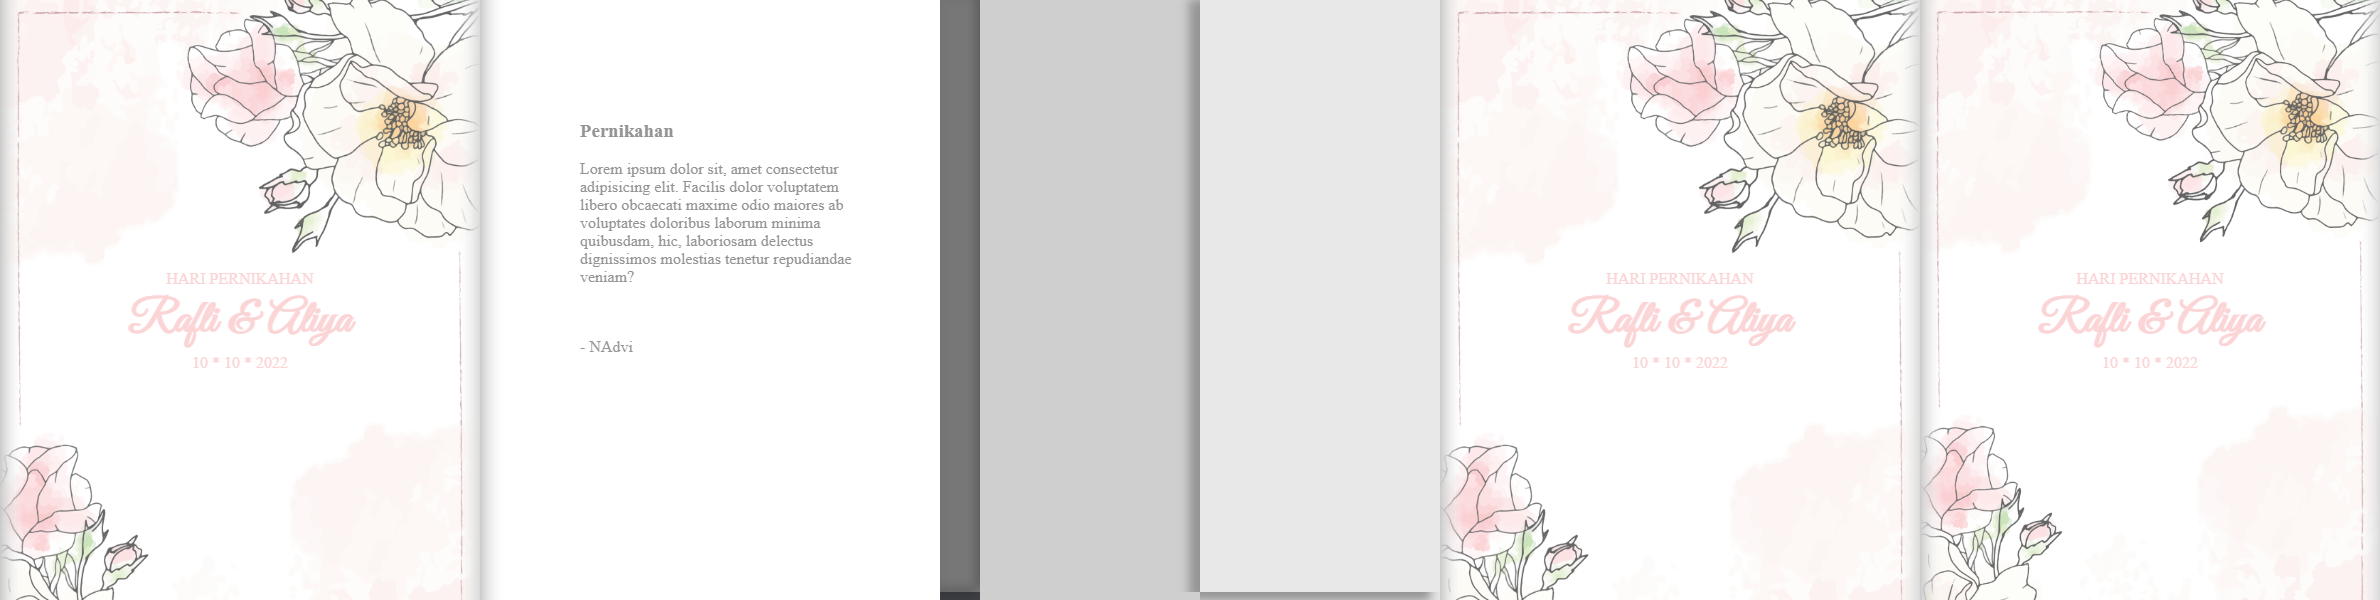
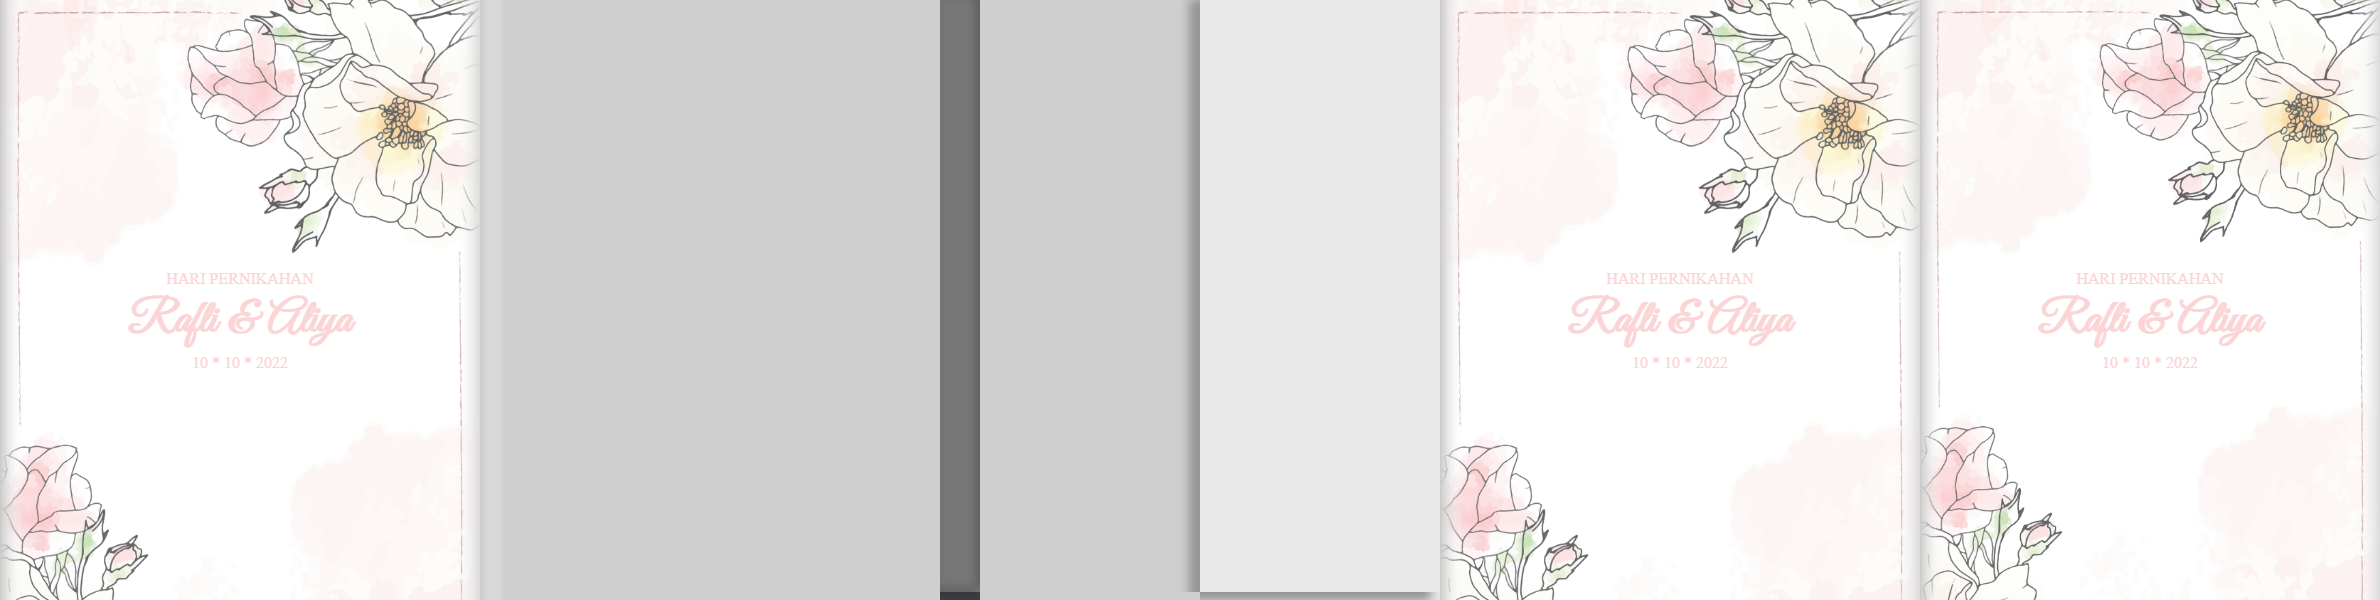
fixing things

Changed region(s): [[0.1866, 0.0, 0.4042, 1.0]]

diff --git a/public/turnjs/invitation/css/books.css b/public/turnjs/invitation/css/books.css
@@ -1,4 +1,5 @@
 /* Steve jobs' book */
+
 @import url('https://fonts.googleapis.com/css2?family=Great+Vibes&display=swap');
 @font-face {
     font-family: 'Stempel-Garamond-W01-Roman';
@@ -170,11 +171,16 @@ form {
     box-shadow: 0 0 20px #999;
 }
 
+
 /* .sj-book .p1, */
+
 .sj-book .p2,
+
 /* .sj-book .p3, */
+
 .sj-book .p21
 /* .sj-book .p22  */
+
 {
     background-image: url(../pics/sampul.png) !important;
 }
@@ -208,17 +214,15 @@ form {
     z-index: 100;
 }
 
-.sj-book .p1 .sampul{
+.sj-book .sampul {
     width: 100%;
     height: 100%;
 }
 
-.sampul img{
+.sampul img {
     width: 100%;
     height: 100%;
 }
-
-
 
 .sj-book-transform div[page="1"]>div,
 .sj-book-transform div[page="2"]>div {
@@ -246,6 +250,7 @@ form {
 .sj-book .p2 {
     background-position: -480px 0 !important;
 }
+
 
 /* .sj-book .p3 {
     background-position: -1920px 0 !important;
@@ -417,8 +422,8 @@ form {
 
 
 /* mycustom code */
-.overlay-effect{
 
+.overlay-effect {
     display: flex;
     flex-direction: column;
     align-items: center;
@@ -429,34 +434,35 @@ form {
     /* background-color: rgba(0, 0, 0, 0.1); */
 }
 
-.overlay-effect h3{
-    font-size:44px;
-    margin-bottom:10px;
-    margin-top:10px;
+.overlay-effect h3 {
+    font-size: 44px;
+    margin-bottom: 10px;
+    margin-top: 10px;
     font-family: 'Great Vibes', cursive;
 }
 
-.cover-effect-right{
-    position:absolute;
+.cover-effect-right {
+    position: absolute;
     width: 100%;
     height: 100%;
-    background:-webkit-gradient(linear, left top, right top, color-stop(0.95, #ffffff00), color-stop(1, #dadada));
-    background-image:-webkit-linear-gradient(left, #ffffff00 95%, #dadada 100%);
-    background-image:-moz-linear-gradient(left, #ffffff00 95%, #dadada 100%);
-    background-image:-ms-linear-gradient(left, #ffffff00 95%, #dadada 100%);
-    background-image:-o-linear-gradient(left, #ffffff00 95%, #dadada 100%);
-    background-image:linear-gradient(left, #ffffff00 95%, #dadada 100%);
+    background: -webkit-gradient(linear, left top, right top, color-stop(0.95, #ffffff00), color-stop(1, #dadada));
+    background-image: -webkit-linear-gradient(left, #ffffff00 95%, #dadada 100%);
+    background-image: -moz-linear-gradient(left, #ffffff00 95%, #dadada 100%);
+    background-image: -ms-linear-gradient(left, #ffffff00 95%, #dadada 100%);
+    background-image: -o-linear-gradient(left, #ffffff00 95%, #dadada 100%);
+    background-image: linear-gradient(left, #ffffff00 95%, #dadada 100%);
 }
-.cover-effect-left{
-    position:absolute;
+
+.cover-effect-left {
+    position: absolute;
     width: 100%;
     height: 100%;
-    background:-webkit-gradient(linear, right top, left top, color-stop(0.95, #ffffff00), color-stop(1, #cacaca));
-    background-image:-webkit-linear-gradient(right, #ffffff00 95%, #cacaca 100%);
-    background-image:-moz-linear-gradient(right, #ffffff00 95%, #cacaca 100%);
-    background-image:-ms-linear-gradient(right, #ffffff00 95%, #cacaca 100%);
-    background-image:-o-linear-gradient(right, #ffffff00 95%, #cacaca 100%);
-    background-image:linear-gradient(right, #ffffff00 95%, #cacaca 100%);
+    background: -webkit-gradient(linear, right top, left top, color-stop(0.95, #ffffff00), color-stop(1, #cacaca));
+    background-image: -webkit-linear-gradient(right, #ffffff00 95%, #cacaca 100%);
+    background-image: -moz-linear-gradient(right, #ffffff00 95%, #cacaca 100%);
+    background-image: -ms-linear-gradient(right, #ffffff00 95%, #cacaca 100%);
+    background-image: -o-linear-gradient(right, #ffffff00 95%, #cacaca 100%);
+    background-image: linear-gradient(right, #ffffff00 95%, #cacaca 100%);
 }
 
 @media (min-width: 1580px) {

diff --git a/public/turnjs/invitation/css/invitation.css b/public/turnjs/invitation/css/invitation.css
@@ -125,3 +125,7 @@
 
 
 /* navigasi  */
+
+:root {
+    --animate-delay: 0.5s;
+}

diff --git a/resources/views/pages/halaman_depan/preview/index.blade.php b/resources/views/pages/halaman_depan/preview/index.blade.php
@@ -18,6 +18,7 @@
     <script type="text/javascript" src="{{ asset('turnjs/extras/modernizr.2.5.3.min.js') }}"></script>
     <script type="text/javascript" src="{{ asset('turnjs/lib/hash.js') }}"></script>
     <link rel="stylesheet" href="{{ asset('turnjs/invitation/css/invitation.css') }}">
+
     <link rel="stylesheet" href="https://cdnjs.cloudflare.com/ajax/libs/font-awesome/6.2.0/css/all.min.css" integrity="sha512-xh6O/CkQoPOWDdYTDqeRdPCVd1SpvCA9XXcUnZS2FmJNp1coAFzvtCN9BmamE+4aHK8yyUHUSCcJHgXloTyT2A==" crossorigin="anonymous" referrerpolicy="no-referrer"
     />
 </head>
@@ -58,7 +59,18 @@
                         <img src="{{ asset('turnjs/invitation/pics/bg/' . $nama_tema .'/bg2.png') }}" alt="">
                     </div>
                 </div>
-                <div class="own-size even"></div>
+                <div class="own-size even">
+                    <div class="sampul" style="position: absolute;">
+                        <div class="cover-effect-right"></div>
+                        <div class="cover-effect-left"></div>
+                        <div class="overlay-effect text-{{ $nama_tema }}">
+                            <span>HARI PERNIKAHAN</span>
+                            <h3>Eren & Mikasa</h3>
+                            <span>10 * 20 * 2022</span>
+                        </div>
+                        <img src="{{ asset('turnjs/invitation/pics/bg/' . $nama_tema .'/bg2.png') }}" alt="">
+                    </div>
+                </div>
                 <div class="hard fixed back-side p21">
                     <div class="depth"></div>
                 </div>

diff --git a/resources/views/turnjs/pages/page18.blade.php b/resources/views/turnjs/pages/page18.blade.php
@@ -1,14 +1,14 @@
 <img src="{{ asset('turnjs/invitation/pics/bg/' . $nama_tema . '/bl.png?p') }}" style="width:100%; height:100%;position: absolute; z-index: 1">
-<div class="book-content" style=" position: relative; z-index:2;">
+<div class="book-content " style=" position: relative; z-index:2;">
 
-    <span class="mempelai text-right text-{{ $nama_tema }}" style="margin-left: 100px;">Our Gallery</span>
+    <span class="mempelai  text-right text-{{ $nama_tema }}" style="margin-left: 100px;">Our Gallery</span>
     <div class="gallery-wrapper">
 
         <div class="polaroid rotate-left" style="margin-left:20px; margin-top: 20px;">
-            <img src="{{ asset('turnjs/invitation/pics/test.png?p') }}" style="width:170px; height:150px;">
+            <img src="{{ asset('turnjs/invitation/pics/g2.png?p') }}" style="width:170px; height:150px;">
         </div>
         <div class="polaroid rotate-right" style="margin-left:170px;">
-            <img src="{{ asset('turnjs/invitation/pics/test.png?p') }}" style="width:170px; height:150px;">
+            <img src="{{ asset('turnjs/invitation/pics/g1.jpg?p') }}" style="width:170px; height:150px;">
         </div>
     </div>
 

diff --git a/resources/views/turnjs/pages/page19.blade.php b/resources/views/turnjs/pages/page19.blade.php
@@ -1,14 +1,14 @@
 <img src="{{ asset('turnjs/invitation/pics/bg/' . $nama_tema . '/tr.png?p') }}" style="width:100%; height:100%;position: absolute; z-index: 1">
-<div class="book-content" style=" position: relative; z-index:2;">
+<div class="book-content " style=" position: relative; z-index:2;">
 
     <span class="mempelai text-right text-{{ $nama_tema }}" >---</span>
     <div class="gallery-wrapper">
 
         <div class="polaroid rotate-left" style="margin-left:20px; margin-top: 20px;">
-            <img src="{{ asset('turnjs/invitation/pics/test.png?p') }}" style="width:170px; height:150px;">
+            <img src="{{ asset('turnjs/invitation/pics/g4.jpg?p') }}" style="width:170px; height:150px;">
         </div>
         <div class="polaroid rotate-right" style="margin-left:170px;">
-            <img src="{{ asset('turnjs/invitation/pics/test.png?p') }}" style="width:170px; height:150px;">
+            <img src="{{ asset('turnjs/invitation/pics/g3.jpg?p') }}" style="width:170px; height:150px;">
         </div>
     </div>
 

diff --git a/resources/views/undangan/pages/page6.blade.php b/resources/views/undangan/pages/page6.blade.php
@@ -4,12 +4,12 @@
 
     <div class="mempelai-wrapper">
         <img src="{{ asset('turnjs/invitation/pics/bg/' . $nama_tema . '/bingkai.png?p') }}" class="mempelai-img-frame">
-        <img src="{{ asset('turnjs/invitation/pics/perempuan.jpg?p') }}" class="mempelai-img">
-        <span class="mempelai text-{{ $nama_tema }}">Mikasa {{ $informasi->nama_mempelai_pria }} </span>
+        <img src="{{ asset('data/informasi/' . $informasi->foto_mempelai_wanita) }}" class="mempelai-img">
+        <span class="mempelai text-{{ $nama_tema }}">{{ $informasi->nama_mempelai_wanita }} </span>
         <span class="text-secondary">Anak dari</span>
-        <span class="text-secondary mt-5">Aakkaman</span>
+        <span class="text-secondary mt-5">{{ $informasi->nama_ayah_mempelai_wanita }}</span>
         <span class="text-secondary">&</span>
-        <span class="text-secondary">Yuka Hirose</span>
+        <span class="text-secondary">{{ $informasi->nama_ibu_mempelai_wanita }}</span>
     </div>
 
 </div>

diff --git a/resources/views/undangan/pages/page7.blade.php b/resources/views/undangan/pages/page7.blade.php
@@ -4,12 +4,12 @@
 
     <div class="mempelai-wrapper">
         <img src="{{ asset('turnjs/invitation/pics/bg/' . $nama_tema . '/bingkai.png?p') }}" class="mempelai-img-frame">
-        <img src="{{ asset('turnjs/invitation/pics/pria.jpg?p') }}" class="mempelai-img">
-        <span class="mempelai text-{{ $nama_tema }}">Eren yeager</span>
+        <img src="{{ asset('data/informasi/' . $informasi->foto_mempelai_pria) }}" class="mempelai-img">
+        <span class="mempelai text-{{ $nama_tema }}">{{ $informasi->nama_mempelai_pria }} </span>
         <span class="text-secondary">Anak dari</span>
-        <span class="text-secondary mt-5">Grisha</span>
+        <span class="text-secondary mt-5">{{ $informasi->nama_ayah_mempelai_pria }}</span>
         <span class="text-secondary">&</span>
-        <span class="text-secondary">Carla</span>
+        <span class="text-secondary">{{ $informasi->nama_ibu_mempelai_pria }}</span>
     </div>
 
 </div>

diff --git a/resources/views/undangan/pages/page9.blade.php b/resources/views/undangan/pages/page9.blade.php
@@ -4,11 +4,11 @@
     <div class="mempelai-wrapper text-center text-{{ $nama_tema }}">
         <span class="mempelai ">Resepsi</span>
         <i class="icon fa-regular fa-calendar-check"></i>
-        <span class="text-main mt-5">Senin, 22 oktober 2022</span>
-        <span class="text-main mt-5">11:00 WITA - Selesai</span>
+        <span class="text-main mt-5">{{ date('l, d F Y', strtotime($informasi->tgl_resepsi)) }}</span>
+        <span class="text-main mt-5">{{ $informasi->jam_resepsi }} - Selesai</span>
         <i class="fa-solid fa-mountain-city icon mt-5"></i>
-        <span class="text-main mt-5">Kediaman memplay wanita</span>
-        <span class="text-main mt-5">Shiganshina-ku? is a town located on the south edge of Wall Maria and is the hometown of Eren Yeager, .</span>
+        <span class="text-main mt-5">Lokasi resepsi</span>
+        <span class="text-main mt-5">{{ $informasi->lokasi_resepsi }}</span>
     </div>
 
 </div>

diff --git a/resources/views/undangan/pages/page8.blade.php b/resources/views/undangan/pages/page8.blade.php
@@ -5,11 +5,11 @@
     <div class="mempelai-wrapper text-center text-{{ $nama_tema }} ">
         <span class="mempelai ">Akad nikah</span>
         <i class="icon fa-regular fa-calendar-check"></i>
-        <span class="text-main mt-5">Senin, 22 oktober 2022</span>
-        <span class="text-main mt-5">11:00 WITA - Selesai</span>
+        <span class="text-main mt-5">{{ date('l, d F Y', strtotime($informasi->tgl_akad)) }}</span>
+        <span class="text-main mt-5">{{ $informasi->jam_akad }} - Selesai</span>
         <i class="fa-solid fa-mountain-city icon mt-5"></i>
-        <span class="text-main mt-5">Kediaman memplay wanita</span>
-        <span class="text-main mt-5">Shiganshina-ku? is a town located on the south edge of Wall Maria and is the hometown of Eren Yeager, .</span>
+        <span class="text-main mt-5">Lokasi akad</span>
+        <span class="text-main mt-5">{{ $informasi->lokasi_akad }}</span>
     </div>
 
 </div>

diff --git a/resources/views/turnjs/pages/page11.blade.php b/resources/views/turnjs/pages/page11.blade.php
@@ -1,7 +1,7 @@
 <img src="{{ asset('turnjs/invitation/pics/bg/' . $nama_tema . '/tr.png?p') }}" style="width:100%; height:100%;position: absolute; z-index: 1">
 <div class="book-content">
 
-    <div class="mempelai-wrapper text-center text-{{ $nama_tema }}">
+    <div class="mempelai-wrapper  text-center text-{{ $nama_tema }}">
         <span class="mempelai">Lokasi acara</span>
         <div class="lokasi-wrapper">
             <iframe class="mt-5" style="border:none; width: 100%; height: 100%;" src="https://www.google.com/maps/embed?pb=!1m14!1m8!1m3!1d7951.631827868392!2d119.596556!3d-4.801639!3m2!1i1024!2i768!4f13.1!3m3!1m2!1s0x0%3A0x36074ae436abb31e!2zNMKwNDgnMDUuOSJTIDExOcKwMzUnNDcuNiJF!5e0!3m2!1sid!2sus!4v1667110293822!5m2!1sid!2sus" width="600" height="450" style="border:0;" allowfullscreen="" loading="lazy" referrerpolicy="no-referrer-when-downgrade"></iframe>

diff --git a/resources/views/undangan/pages/page17.blade.php b/resources/views/undangan/pages/page17.blade.php
@@ -4,16 +4,16 @@
 
     <p class="mt-15">
         <div class="polaroid rotate-left" style="">
-            <img src="{{ asset('turnjs/invitation/pics/test.png?p') }}" style="width:190px; height:170px; ">
+            <img src="{{ asset('data/informasi/' . $informasi->gambar_lamaran) }}" style="width:190px; height:170px; ">
         </div>
     </p>
     <h1>Akhirnya lamaran</h1>
 
-    <h2>dipinggir kali</h2>
+    <h2>{{ $informasi->lokasi_lamaran }}</h2>
 
     <p class="capital">
-        5 years later, we’ve spent a 6-month stint in Queenstown, bought our very first home, and welcomed 2 mischievous kittens to our family. After travelling through New Zealand, Dewa finally popped the question – and Weni said yes!
+        {{ $informasi->cerita_lamaran }}
     </p>
 
     </div>
-    <span class="page-number">16</span>
+    <span class="page-number">17</span>

diff --git a/resources/views/undangan/pages/page16.blade.php b/resources/views/undangan/pages/page16.blade.php
@@ -3,15 +3,15 @@
 
     <h1  >Pertama ketemu</h1>
 
-    <h2>Ditengah peperangan</h2>
+    <h2>{{ $informasi->lokasi_pertama_ketemu }}</h2>
 
     <p class="capital">
-        After some cheeky back and forth banter, numbers were exchanged and a first date took place the very next day with dinner and a movie. It was only 4 weeks later that Jemima packed her bags and moved in with Kurt, and their whirlwind romance began.
+        {{ $informasi->cerita_pertama_ketemu }}
     </p>
 
     <p class="center-pic">
         <div class="polaroid rotate-right" style="margin-left:150px;">
-            <img src="{{ asset('turnjs/invitation/pics/test.png?p') }}" style="width:190px; height:170px;">
+            <img src="{{ asset('data/informasi/' . $informasi->gambar_pertama_ketemu) }}" style="width:190px; height:170px;">
         </div>
     </p>
 
